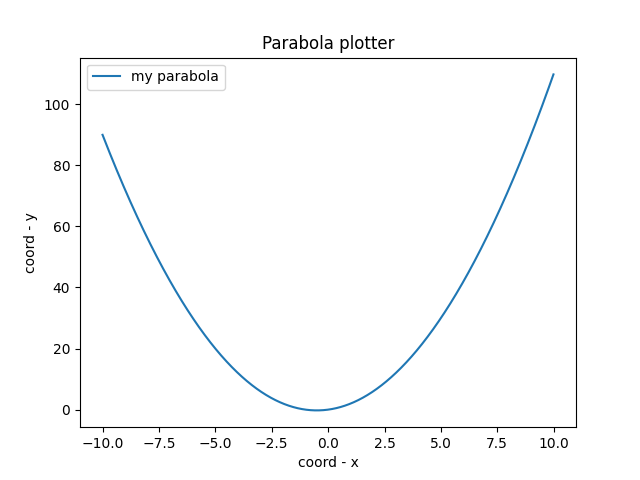
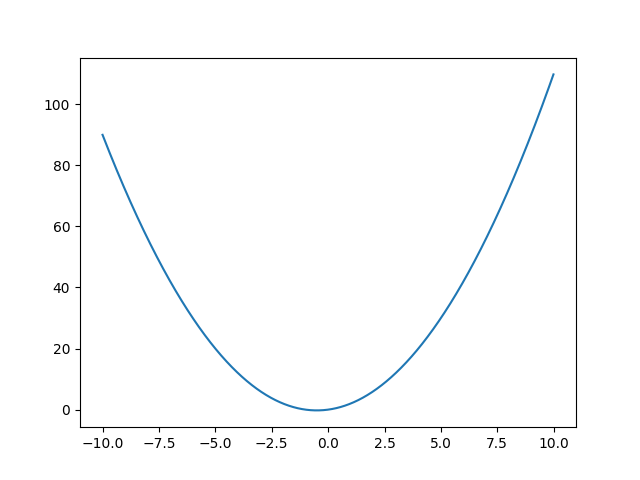
лесенка и графы кайф

diff --git a/matplotlib_dz_4.py b/matplotlib_dz_4.py
@@ -1,6 +1,7 @@
 import matplotlib.pyplot as plt
 import numpy as np
 
+
 b = 0.3
 
 phi = np.arange(0, 8*np.pi, 0.1)
@@ -9,5 +10,48 @@ r = np.e ** (b * phi)
 x = r * np.cos(phi)
 y = r * np.sin(phi)
 
-plt.plot(x, y, label='my parabola')
-plt.savefig('fig_dz_4.png')
+plt.plot(x, y)
+plt.axis('equal')
+plt.savefig('fig_dz_4.1.png')
+
+plt.close()
+k = 0.4
+
+phi = np.arange(0, 8*np.pi, 0.1)
+r = k * phi
+
+x = r * np.cos(phi)
+y = r * np.sin(phi)
+
+plt.plot(x, y)
+plt.axis('equal')
+plt.savefig('fig_dz_4.2.png')
+
+plt.close()
+
+alfa = 5
+
+phi = np.arange(0.01, 8*np.pi, 0.1)
+r = alfa / np.sqrt(phi)
+
+x = r * np.cos(phi)
+y = r * np.sin(phi)
+
+plt.plot(x, y)
+plt.axis('equal')
+plt.savefig('fig_dz_4.3.png')
+
+plt.close()
+
+
+k = 8
+
+phi = np.arange(0, 8*np.pi, 0.1)
+r = np.sin(phi * k)
+
+x = r * np.cos(phi)
+y = r * np.sin(phi)
+
+plt.plot(x, y)
+plt.axis('equal')
+plt.savefig('fig_dz_4.4.png')

diff --git a/matplotlib_dz_2.py b/matplotlib_dz_2.py
@@ -2,20 +2,24 @@
 import matplotlib.pyplot as plt
 import numpy as np
 
+x = np.arange(-10, 10, 0.02)
+y = 1 / (x + 0.05)
+plt.plot(x, y, label='my parabola')
+plt.savefig('fig_dz_2.png')
 
-def parabola_plotter(a=1, b=1, c=0):
 
-    x = np.arange(-10, 10, 0.02)
-    y = 1 / (x + 0.05)
+'''def parabola_plotter(a=1, b=1, c=0):
 
-    plt.plot(x, y, label='my parabola')
+    
+
+    
     plt.xlabel('coord - x')
     plt.ylabel('coord - y')
     plt.title('Гипербола')
     plt.legend()
 
-    plt.savefig('fig_dz_2.png')
+    
 
 
 if __name__ == '__main__':
-    parabola_plotter()
+    parabola_plotter()'''

diff --git a/dop_graf_1.py b/dop_graf_1.py
@@ -1,0 +1,11 @@
+import matplotlib.pyplot as plt
+import numpy as np
+def no(A=1,a=1,b=6,B=1):
+    t = np.arange(0, 24*np.pi, 0.01)
+    x = A * np.sin(a * t + np.pi/2)
+    y = B * np.sin(b * t)    
+
+    plt.plot(x,y)
+    plt.axis('equal')
+    plt.savefig('dop_1.png')
+no()

diff --git a/lec_dop_4.py b/lec_dop_4.py
@@ -1,0 +1,12 @@
+import matplotlib.pyplot as plt
+import numpy as np
+
+N = 10
+
+x = np.arange(0, N+1, 0.01)
+y = x // 1
+    
+plt.plot(x,y)
+plt.axis('equal')
+plt.savefig('dop_4.png')
+

diff --git a/dop_graf_2.py b/dop_graf_2.py
@@ -3,7 +3,7 @@ import numpy as np
 
 
 def circle_plotter(a,b):
-
+  
     x = np.arange(-1.1*a, 1.1*a, 0.01)
     y = np.arange(-1.1*a, 1.1*a, 0.01)
 
